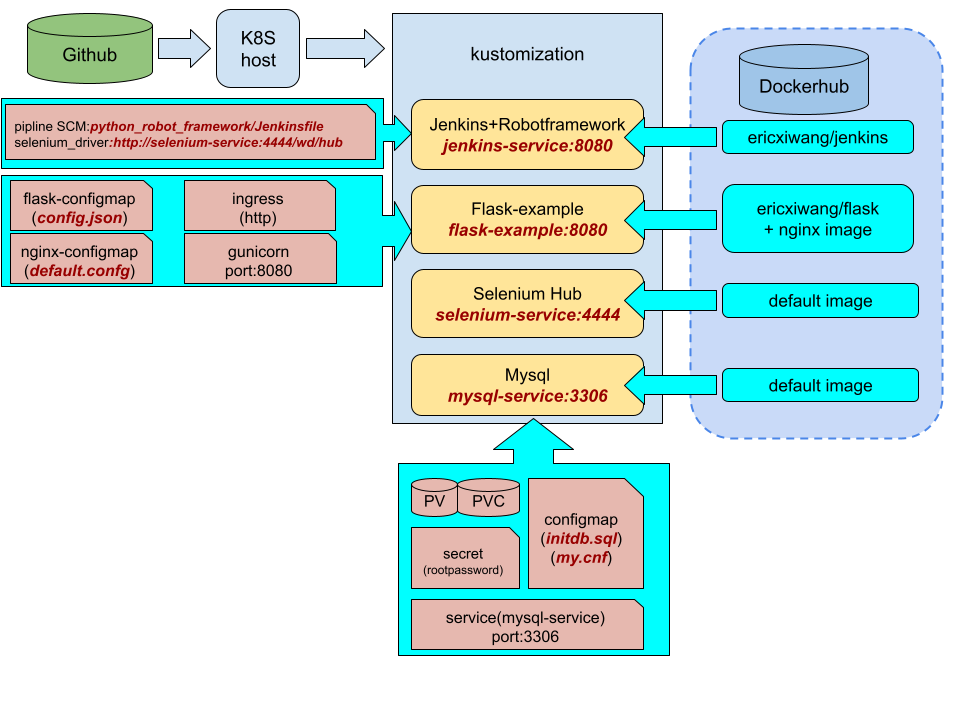
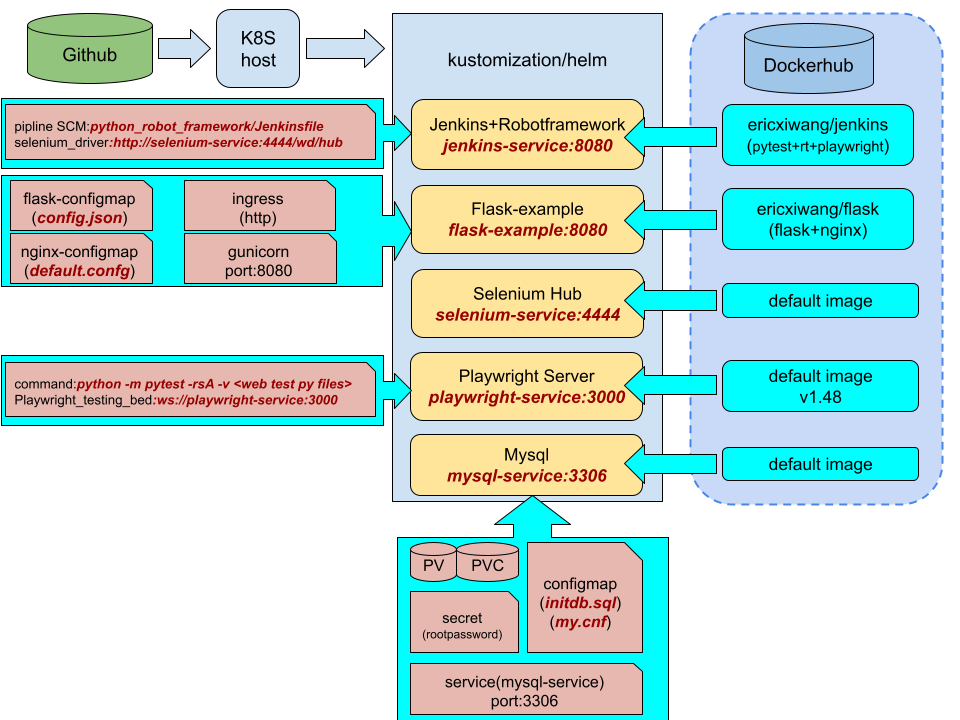
1.update readme file

Changed region(s): [[0.0, 0.4889, 1.0, 1.0], [0.7188, 0.0, 1.0, 0.3667], [0.4688, 0.0611, 0.625, 0.0917]]

diff --git a/k8s/README.md b/k8s/README.md
@@ -28,13 +28,16 @@ docker pull ericxiwang/jenkins:tagname
 ### 4.selenium-service
     service name: selenium-service
     service port: 4444
-
+### 5.playwright-service
+    service name: playwright-service
+    service port: 3000
 #### run port forward on k8s
-    kubectl port-forward --address 0.0.0.0 service/jenkins-service（jenkins-server） 8081:8080 & \
-    kubectl port-forward --address 0.0.0.0 service/selenium-service 4444:4444 & \
-    kubectl port-forward --address 0.0.0.0 service/flask-example 8080:8080 &
+    kubectl port-forward --address=0.0.0.0 service/jenkins-service（jenkins-server） 8081:8080 & \
+    kubectl port-forward --address=0.0.0.0 service/selenium-service 4444:4444 & \
+    kubectl port-forward --address=0.0.0.0 service/flask-example 8080:8080 & \
+    kubectl port-forward --address=0.0.0.0 svc/playwright 3000:3000 &
 
-#### run port forward on k8s
+#### k8s sketch map
 ___
 ![top](readmepic.png)
 ___
